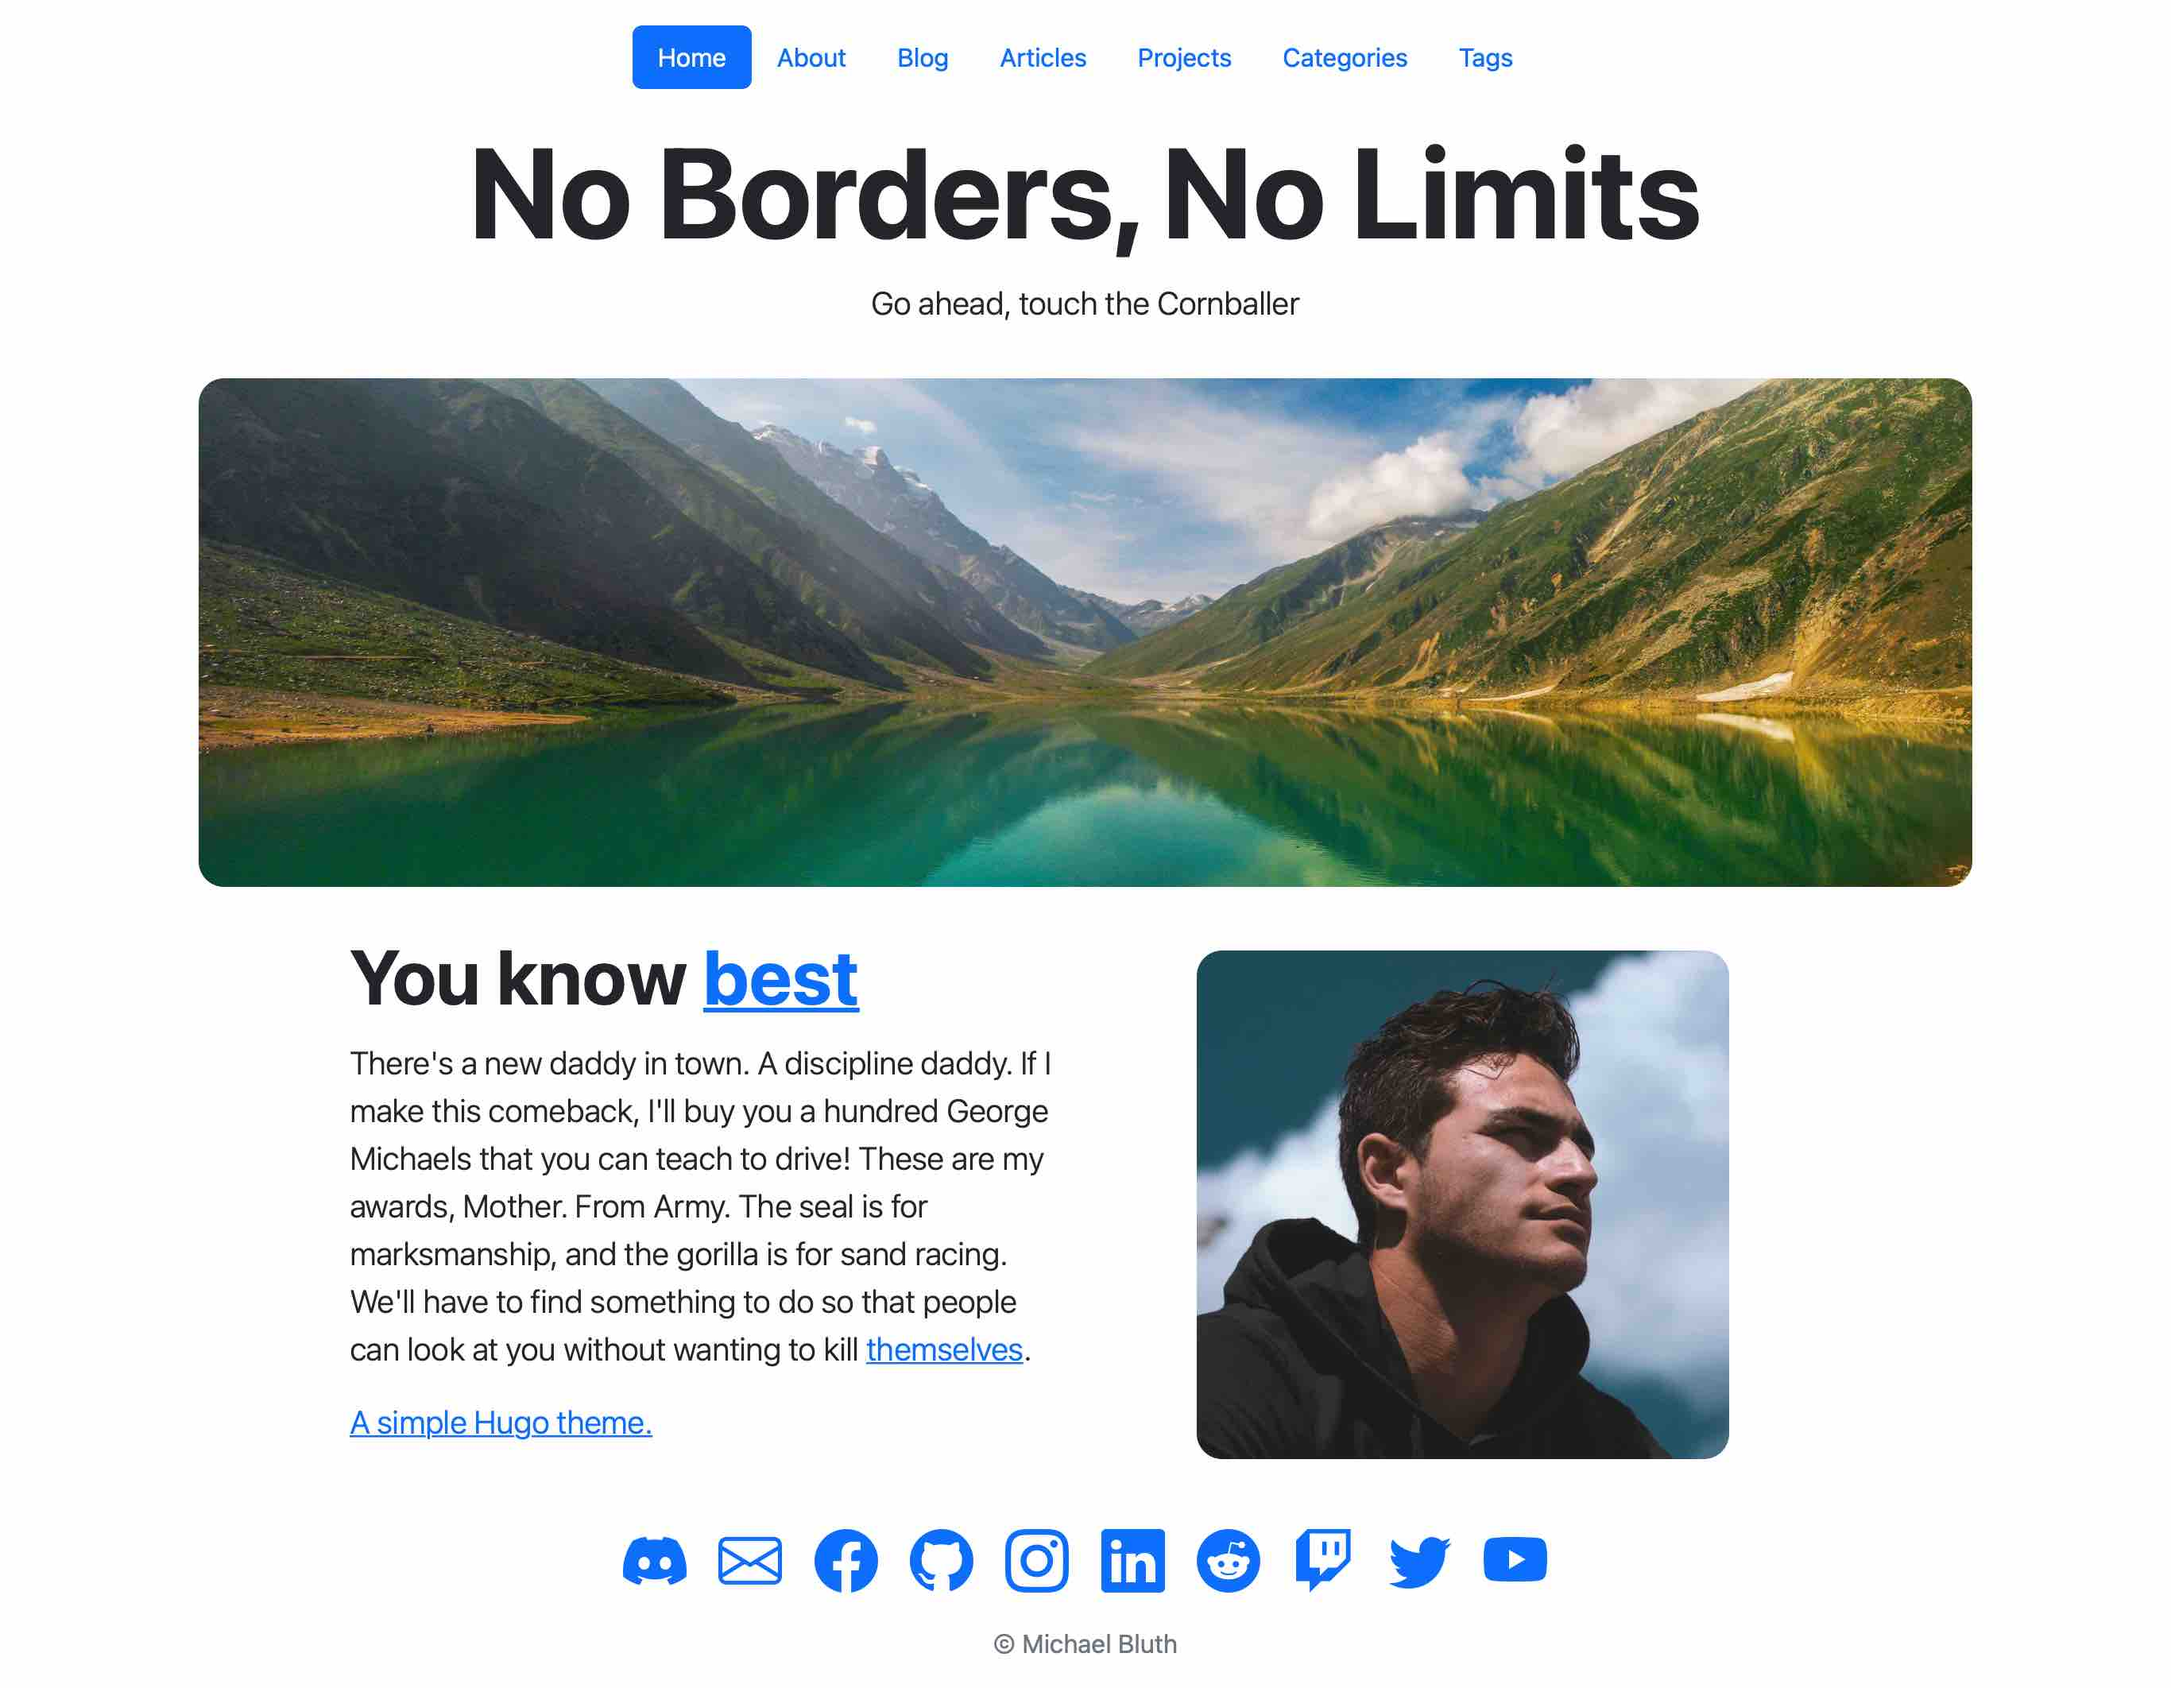
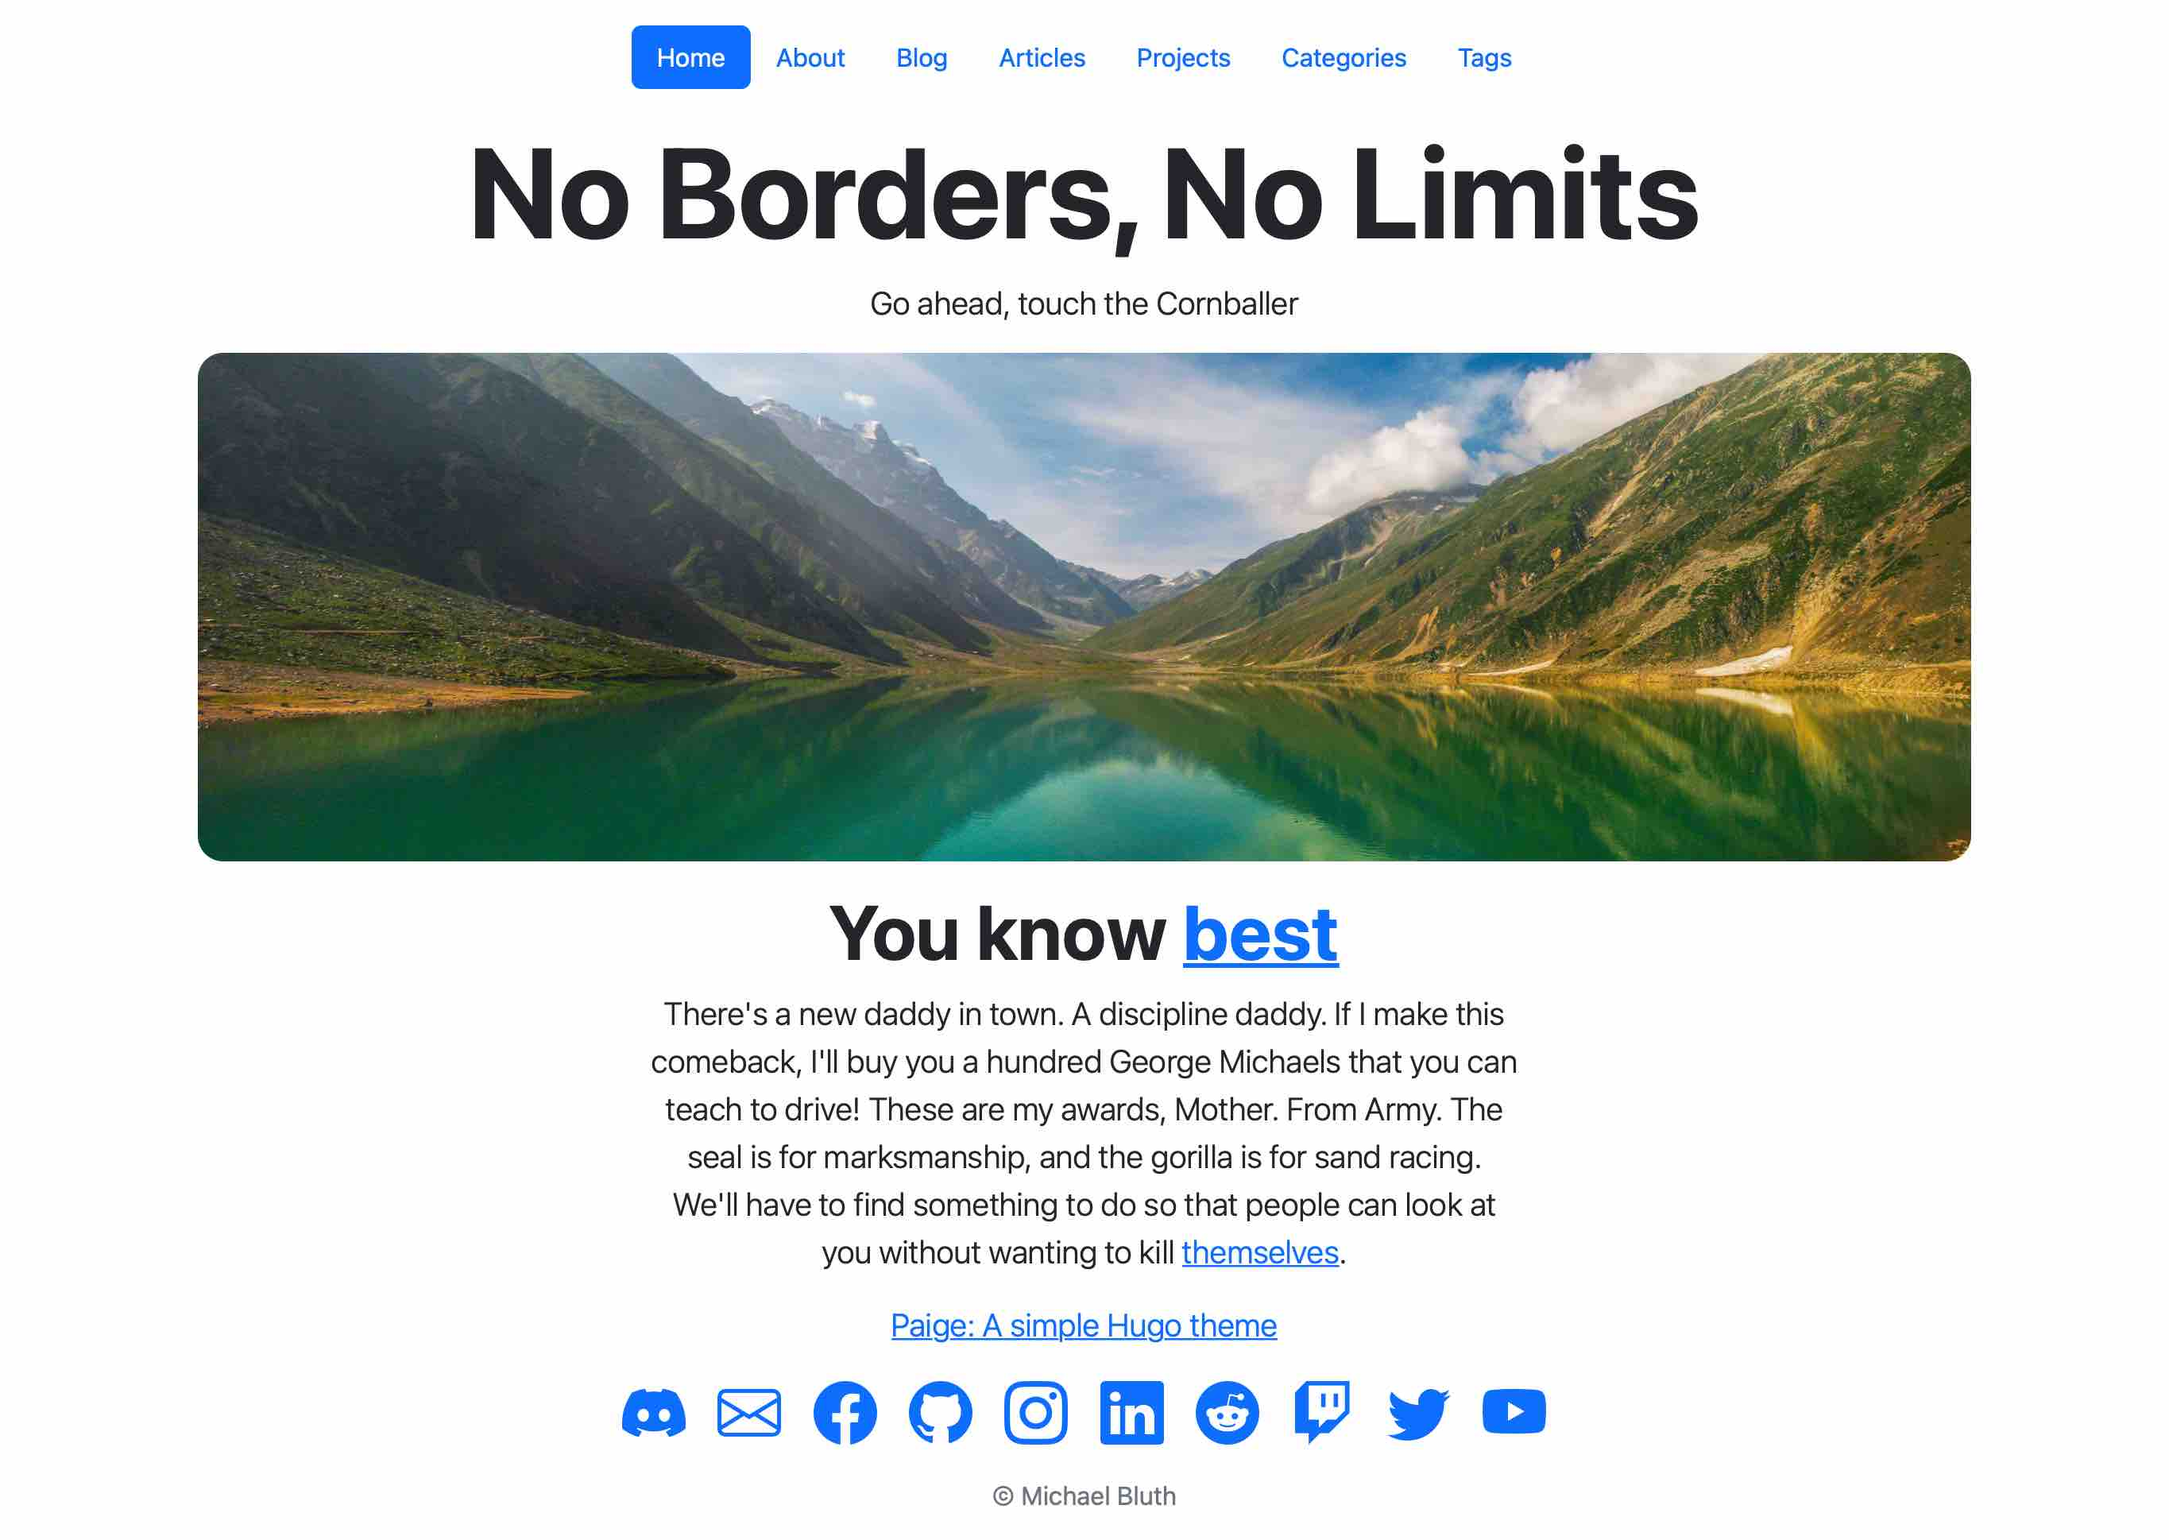
Simplify and generalize home page

diff --git a/layouts/_default/home.html b/layouts/_default/home.html
@@ -1,7 +1,7 @@
 {{ define "main" }}
 {{ if or .Title .Description }}
-<div class="row text-center">
-    <div class="col">
+<div class="row">
+    <div class="col text-center">
         {{ if .Title }}
         <h1 class="display-1 fw-bold">{{ .Title | markdownify }}</h1>
         {{ end }}
@@ -11,27 +11,42 @@
     </div>
 </div>
 {{ end }}
-<div class="row py-3">
-    <div class="col">
-        <div class="rounded-4" style="background-image: url('{{ .Site.BaseURL }}/cover.jpg'); background-position: center; background-size: cover; height: 20rem; width: 100%"></div>
+{{ if .Params.stretch }}
+<div class="row">
+    <div class="col pb-3 text-center">
+        <div class="rounded-4" style="background-image: url('{{ relURL .Params.stretch }}'); background-position: center; background-size: cover; height: 20rem; max-width: 100%"></div>
     </div>
 </div>
-<div class="d-flex justify-content-center py-3 row">
-    <div class="col-12 col-xl-10">
-        <div class="d-flex justify-content-evenly align-items-center row">
-            <div class="col-12 col-md-6">
-                <p class="display-5 fw-bold lh-1">{{ .Params.greeting | markdownify }}</p>
-                <p class="lead">{{ .Params.blurb | markdownify }}</p>
-            </div>
-            <div class="col-12 col-md-6 text-center">
-                <img alt="Avatar" class="rounded-4" src="{{ .Site.BaseURL }}/avatar.jpg" style="max-height: 20rem; max-width: 100%">
-            </div>
-        </div>
+{{ end }}
+{{ if .Params.center }}
+<div class="row">
+    <div class="col pb-3 text-center">
+        <img alt="Avatar" class="rounded-4" src="{{ relURL .Params.center }}" style="max-height: 20rem; max-width: 100%">
     </div>
 </div>
-{{ if .Site.Social }}
-<div class="py-3 row">
+{{ end }}
+{{ if .Params.greeting }}
+<div class="row">
     <div class="col text-center">
+        <h2 class="display-5 fw-bold">{{ .Params.greeting | markdownify }}</h2>
+    </div>
+</div>
+{{ end }}
+{{ if .Params.blurb }}
+<div class="row">
+    <div class="col col-lg-6 mx-auto text-center">
+        <div class="lead">{{ .Params.blurb | markdownify }}</div>
+    </div>
+</div>
+{{ end }}
+{{ if .Content }}
+<div class="row">
+    <div class="col">{{ .Content }}</div>
+</div>
+{{ end }}
+{{ if .Site.Social }}
+<div class="row">
+    <div class="col pb-3 text-center">
         {{ range $k, $v := .Site.Social }}
         <a href="{{ $v }}"><i class="bi bi-{{ $k }} display-6 px-2"></i></a>
         {{ end }}

diff --git a/README.md b/README.md
@@ -79,7 +79,7 @@ dot. If both are the same, only one is used without the middle dot.
 The HTML body can have a header, a body, and a footer. The header has
 the section menus, if any; the page title, if any; the page description,
 if any; and the page date, if any. The body has the page content, if
-any. The footer has the site copyright notice, if any.
+any. The footer has the copyright notice, if any.
 
 A section menu is highlighted if its path is a prefix of the path of the
 current page. For example, the section menu path `/foo/` matches the
@@ -90,10 +90,12 @@ page `content/_index.md`.
 The page date is the publish date, if any; otherwise, it's the creation
 date.
 
-The home page shows the `blurb`, `description`, `greeting`, and `title`
-parameters from `content/_index.md`, the `avatar.jpg` and `cover.jpg`
-images at the site root, and linked icons for all the social sites
-configured in `config.yaml`.
+The home page body has the `stretch`, `center`, `greeting`, and `blurb`
+parameters from `content/_index.md`, if any; the page content, if any;
+and linked icons for the social sites configured in `config.yaml`, if
+any. `stretch` is an image that is stretched fully horizontally with
+`background-position: center` and `background-size: cover`. `center` is
+an image that is centered.
 
 Single pages use the `link` page parameter, if any, as the reference for
 an anchor around the page title, if any. If the page or site parameter

diff --git a/exampleSite/content/_index.md b/exampleSite/content/_index.md
@@ -1,6 +1,7 @@
 ---
-blurb: "There's a new daddy in town. A discipline daddy. If I make this comeback, I'll buy you a hundred George Michaels that you can teach to drive! These are my awards, Mother. From Army. The seal is for marksmanship, and the gorilla is for sand racing. We'll have to find something to do so that people can look at you without wanting to kill <a href=\"https://bluthipsum.com\">themselves</a>.<br><br><a href=\"https://github.com/willfaught/paige\">Paige: A simple Hugo theme</a></p>"
+blurb: "<p>There's a new daddy in town. A discipline daddy. If I make this comeback, I'll buy you a hundred George Michaels that you can teach to drive! These are my awards, Mother. From Army. The seal is for marksmanship, and the gorilla is for sand racing. We'll have to find something to do so that people can look at you without wanting to kill <a href=\"https://bluthipsum.com\">themselves</a>.</p><p><a href=\"https://github.com/willfaught/paige\">Paige: A simple Hugo theme</a></p>"
 description: Go ahead, touch the Cornballer
 greeting: You know [best](https://www.youtube.com/watch?v=1WDW8XKEGgU)
+stretch: cover.jpg
 title: No Borders, No Limits
 ---
